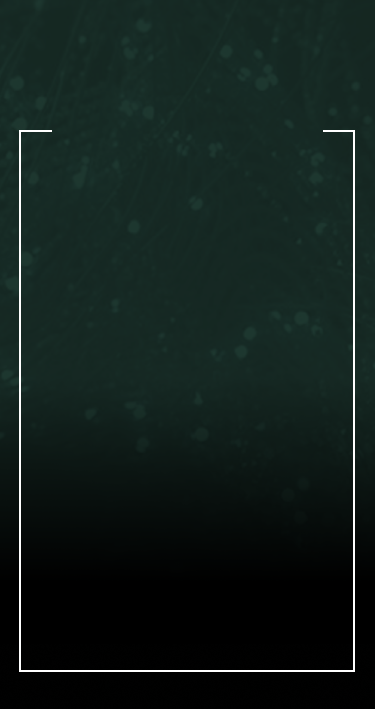
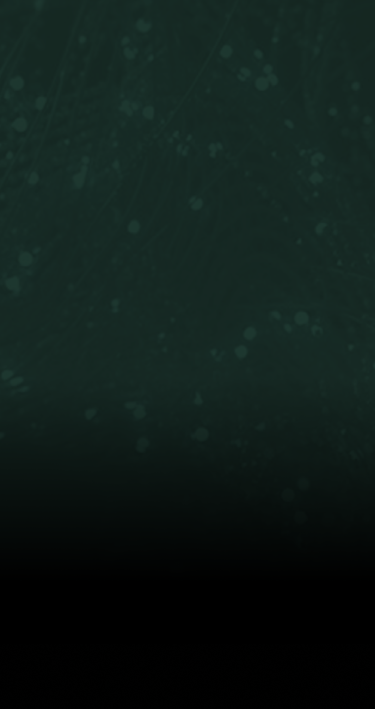
fix modal

Changed region(s): [[0.9387, 0.1862, 0.968, 0.9619], [0.0293, 0.1862, 0.0587, 0.9619]]

diff --git a/index.html b/index.html
@@ -91,32 +91,35 @@
       <img src="static/img/close.svg" alt="X">
     </div>
     <div class="modal__content" id="modal-content">
-      <div class="modal__logo">
+      <div class="modal__frame"><div class="modal__frame-inner"></div></div>
+      <div class="modal__content-inner">
+        <div class="modal__logo">
         <img src="static/img/daybreaker-logo.svg" alt="logo">
       </div>
-      <div class="modal__title">Unlock your invite to our first-ever Daybreaker Membership Club.</div>
-      <ul class="modal__list">
-        <li>Sign up to join the launch of our new D.O.S.E. by Daybreaker membership portal as a Founding Member</li>
-        <li>Biohack your happiness with fun on-demand dance, yoga, meditation and special Daybreaker classes.</li>
-        <li>Connect to the community with members-only virtual dance parties, monthly private social hours, quarterly
-          book clubs and more...
-        </li>
-      </ul>
-      <div class="modal-form">
-          <form action="" id="email-form">
-              <input required type="email" class="modal-form__email-input" tabindex="1" placeholder="Drop your email">
-              <input type="hidden" name="g" value="">
-              <input type="hidden" name="$fields" value="user_city,user_ip,signup_location">
-              <input type="hidden" name="user_city" value="">
-              <input type="hidden" name="user_ip" value="">
-              <input type="hidden" name="signup_location" value="">
-              <div class="modal-form__button-container">
-                <button type="submit" class="modal-form__button button" role="button" tabindex="2">Get on the list</button>
-              </div>
-          </form>
-          <div id="subscribe-successful" style="display: none;" class="modal-form__success-message">
-            <div>You’re in! Check your inbox.</div>
-          </div>
+        <div class="modal__title">Unlock your invite to our first-ever Daybreaker Membership Club.</div>
+        <ul class="modal__list">
+          <li>Sign up to join the launch of our new D.O.S.E. by Daybreaker membership portal as a Founding Member</li>
+          <li>Biohack your happiness with fun on-demand dance, yoga, meditation and special Daybreaker classes.</li>
+          <li>Connect to the community with members-only virtual dance parties, monthly private social hours, quarterly
+            book clubs and more...
+          </li>
+        </ul>
+        <div class="modal-form">
+            <form action="" id="email-form">
+                <input required type="email" class="modal-form__email-input" tabindex="1" placeholder="Drop your email">
+                <input type="hidden" name="g" value="">
+                <input type="hidden" name="$fields" value="user_city,user_ip,signup_location">
+                <input type="hidden" name="user_city" value="">
+                <input type="hidden" name="user_ip" value="">
+                <input type="hidden" name="signup_location" value="">
+                <div class="modal-form__button-container">
+                  <button type="submit" class="modal-form__button button" role="button" tabindex="2">Get on the list</button>
+                </div>
+            </form>
+            <div id="subscribe-successful" style="display: none;" class="modal-form__success-message">
+              <div>You’re in! Check your inbox.</div>
+            </div>
+        </div>
       </div>
   </div>
 

diff --git a/static/css/style.css b/static/css/style.css
@@ -85,8 +85,7 @@ a {
 
 .modal-form {
   max-width: 210px;
-  margin: 0 auto;
-  padding-bottom: 20px; }
+  margin: 0 auto; }
   @media (min-width: 375px) {
     .modal-form {
       max-width: 260px; } }
@@ -100,11 +99,13 @@ a {
     text-align: center;
     padding-bottom: 5px;
     color: #fff;
-    font-size: 16px; }
+    font-size: 16px;
+    -webkit-box-shadow: none;
+    box-shadow: none; }
   .modal-form__email-input:focus {
     color: #fff; }
   .modal-form__button-container {
-    padding: 20px 0;
+    padding: 20px 0 30px;
     text-align: center; }
   .modal-form__button {
     padding: 9px 17px;
@@ -118,7 +119,7 @@ a {
     color: #fff;
     text-align: center;
     white-space: nowrap;
-    padding-bottom: 10px; }
+    padding-bottom: 20px; }
 
 .social {
   display: -webkit-box;
@@ -416,6 +417,37 @@ a {
   overflow-y: auto; }
   .modal.active {
     display: block; }
+  .modal__frame {
+    position: absolute;
+    bottom: 33px;
+    left: 15px;
+    width: calc(100% - 30px);
+    height: calc(100% - 155px);
+    border: 2px solid #fff; }
+    @media (min-width: 375px) {
+      .modal__frame {
+        left: 20px;
+        width: calc(100% - 40px); } }
+    @media (min-width: 992px) {
+      .modal__frame {
+        left: 35px;
+        width: calc(100% - 70px);
+        height: calc(100% - 176px); } }
+  .modal__frame-inner {
+    position: relative; }
+    .modal__frame-inner:before {
+      display: block;
+      content: '';
+      position: absolute;
+      top: -3px;
+      left: 28px;
+      width: calc(100% - 56px);
+      height: 5px;
+      background-color: #172B25; }
+      @media (min-width: 992px) {
+        .modal__frame-inner:before {
+          left: 42px;
+          width: calc(100% - 84px); } }
   .modal__close-button {
     position: absolute;
     top: 25px;
@@ -431,8 +463,9 @@ a {
       width: 23px;
       height: 23px; }
   .modal__content {
+    position: relative;
     max-width: 320px;
-    padding: 40px 0 30px;
+    padding: 30px 0 30px;
     background: url("../img/modal-bg-mobile.png") no-repeat;
     background-size: 100% 100%;
     margin: 0 auto; }
@@ -442,9 +475,11 @@ a {
     @media (min-width: 992px) {
       .modal__content {
         max-width: 525px;
-        padding-top: 45px;
         background: url("../img/modal-bg.png") no-repeat;
         background-size: 100% 100%; } }
+  .modal__content-inner {
+    position: relative;
+    z-index: 2; }
   .modal__logo {
     margin-bottom: 15px; }
     .modal__logo img {

diff --git a/gulp/blocks/modal/_modal.scss b/gulp/blocks/modal/_modal.scss
@@ -14,6 +14,46 @@
     display: block;
   }
 
+  &__frame {
+    position: absolute;
+    bottom: 33px;
+    left: 15px;
+    width: calc(100% - 30px);
+    height: calc(100% - 155px);
+    border: 2px solid $color-white;
+
+    @media (min-width: $screen-xs) {
+      left: 20px;
+      width: calc(100% - 40px);
+    }
+
+    @media (min-width: $screen-lg) {
+      left: 35px;
+      width: calc(100% - 70px);
+      height: calc(100% - 176px);
+    }
+  }
+
+  &__frame-inner {
+    position: relative;
+
+    &:before {
+      display: block;
+      content: '';
+      position: absolute;
+      top: -3px;
+      left: 28px;
+      width: calc(100% - 56px);
+      height: 5px;
+      background-color: $color-green;
+
+      @media (min-width: $screen-lg) {
+        left: 42px;
+        width: calc(100% - 84px);
+      }
+    }
+  }
+
   &__close-button {
     position: absolute;
     top: 25px;
@@ -34,8 +74,9 @@
   }
 
   &__content {
+    position: relative;
     max-width: 320px;
-    padding: 40px 0 30px;
+    padding: 30px 0 30px;
     background: url("../img/modal-bg-mobile.png") no-repeat;
     background-size: 100% 100%;
     margin: 0 auto;
@@ -46,10 +87,14 @@
 
     @media (min-width: $screen-lg) {
       max-width: 525px;
-      padding-top: 45px;
       background: url("../img/modal-bg.png") no-repeat;
       background-size: 100% 100%;
     }
+  }
+
+  &__content-inner {
+    position: relative;
+    z-index: 2;
   }
 
   &__logo {

diff --git a/gulp/blocks/modal-form/_modal-form.scss b/gulp/blocks/modal-form/_modal-form.scss
@@ -1,7 +1,6 @@
 .modal-form {
   max-width: 210px;
   margin: 0 auto;
-  padding-bottom: 20px;
 
   @media (min-width: $screen-xs) {
     max-width: 260px;
@@ -18,6 +17,7 @@
     padding-bottom: 5px;
     color: $color-white;
     font-size: 16px;
+    box-shadow: none;
   }
 
   &__email-input:focus {
@@ -25,7 +25,7 @@
   }
 
   &__button-container {
-    padding: 20px 0;
+    padding: 20px 0 30px;
     text-align: center;
   }
 
@@ -43,6 +43,6 @@
     color: $color-white;
     text-align: center;
     white-space: nowrap;
-    padding-bottom: 10px;
+    padding-bottom: 20px;
   }
 }

diff --git a/gulp/_variables.scss b/gulp/_variables.scss
@@ -4,6 +4,7 @@ $color-main:                 #a0ffde;
 $color-dark:                 #212529;
 $color-darkest:              #030505;
 $color-grey:                 #727272;
+$color-green:                 #172B25;
 $font-size:                  18px;
 
 $screen-xxs:                  0;
